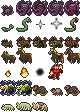
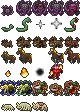
Frog demon graphics

Changed region(s): [[0.4, 0.6964, 1.0, 0.8571]]

diff --git a/changelog.md b/changelog.md
@@ -1,5 +1,10 @@
 # Succubus Dungeon : Changelog #
 
+## 16.4
++ Added graphics for frog demons with child and animated version.
++ Optimized performance when there is a lot of underground creatures.
++ Added extra body part back for naughty sparring logs.
+
 ## 16.3
 + Fixed the summoning portal.
 + Removed training weapons.
